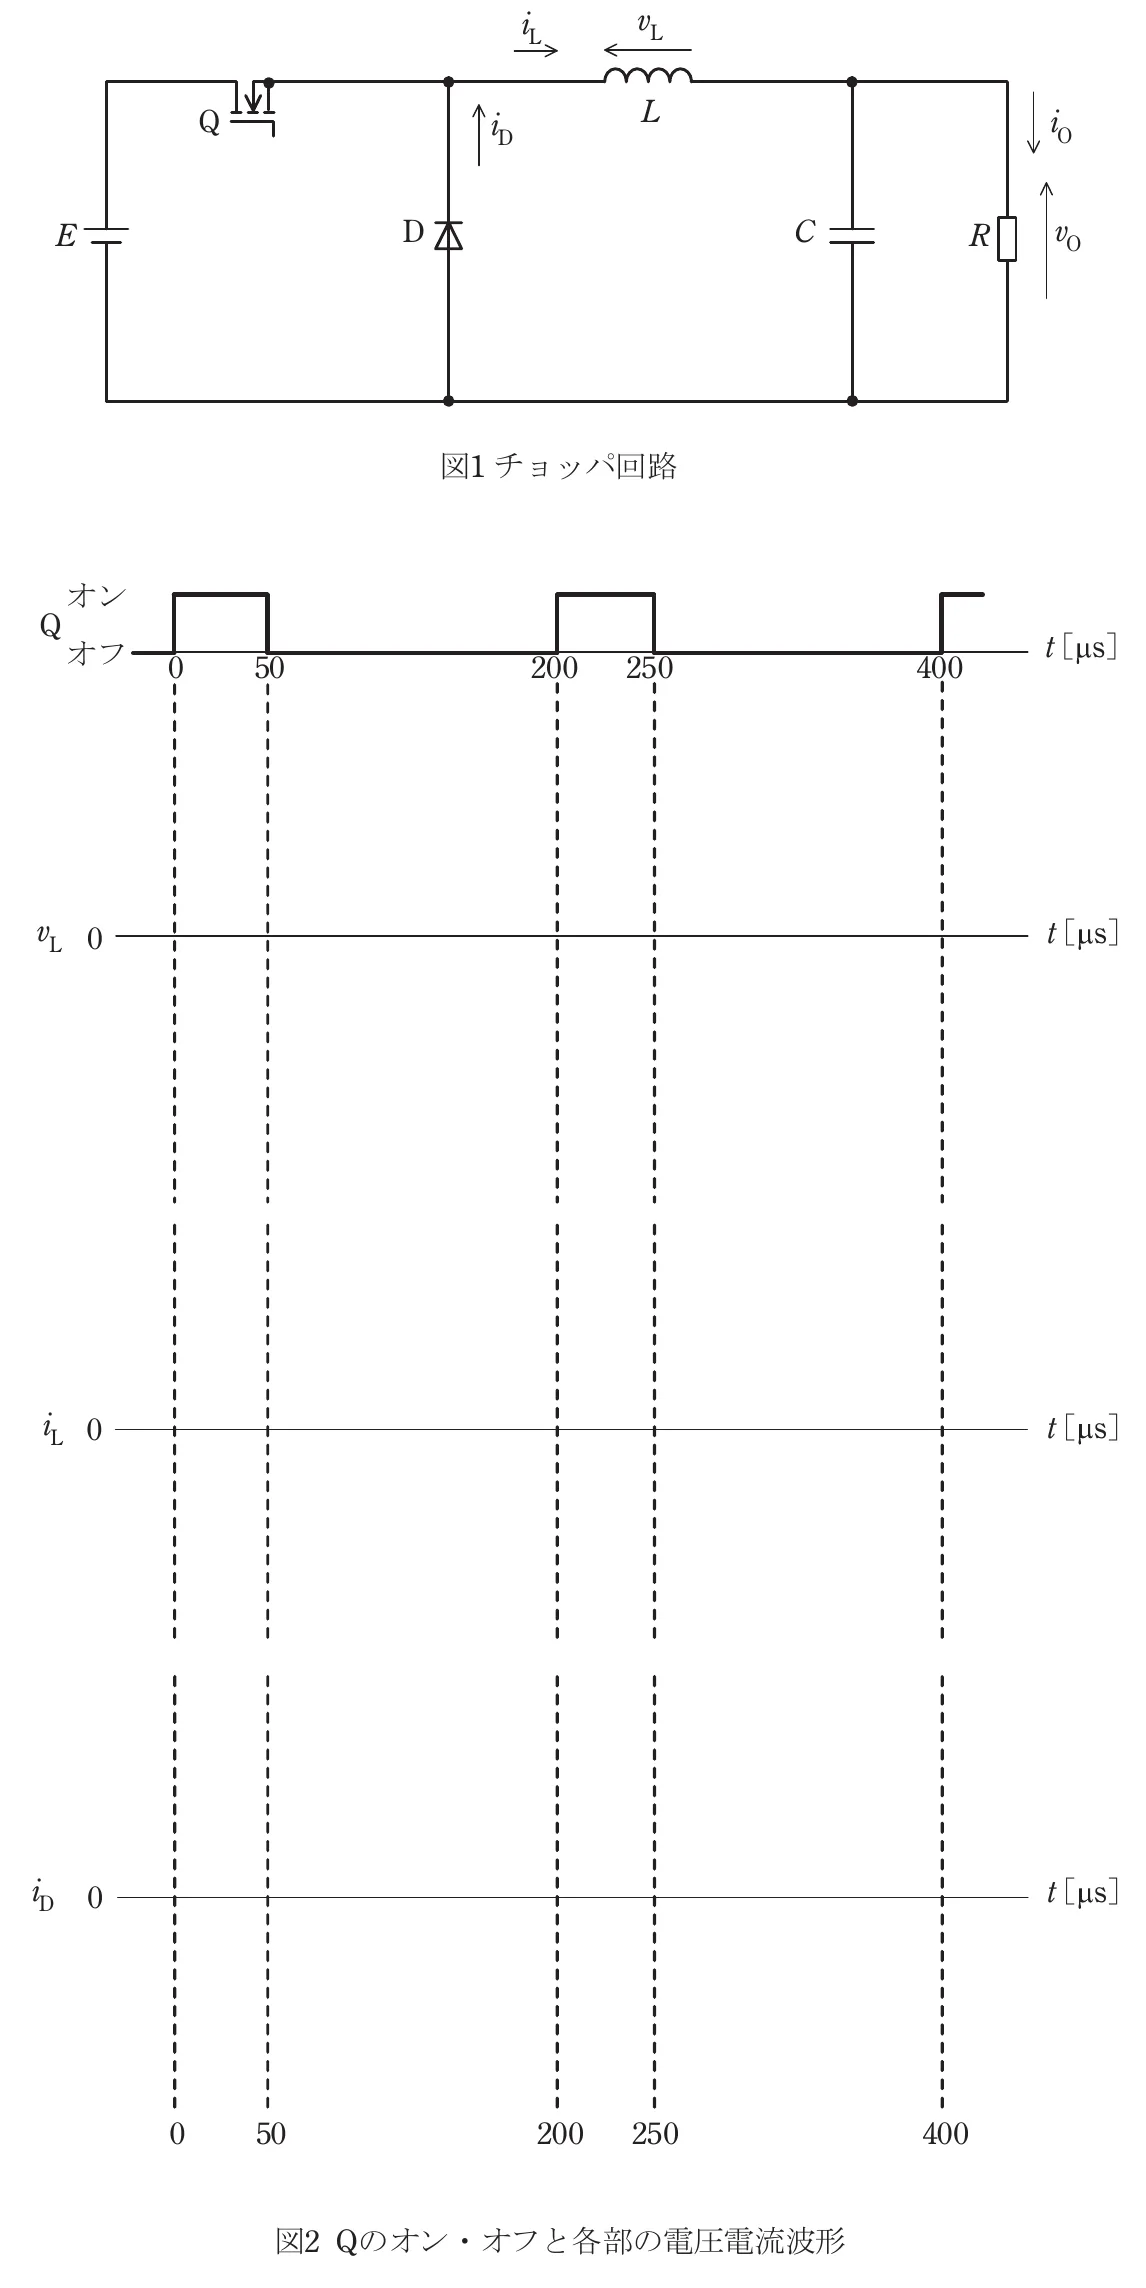
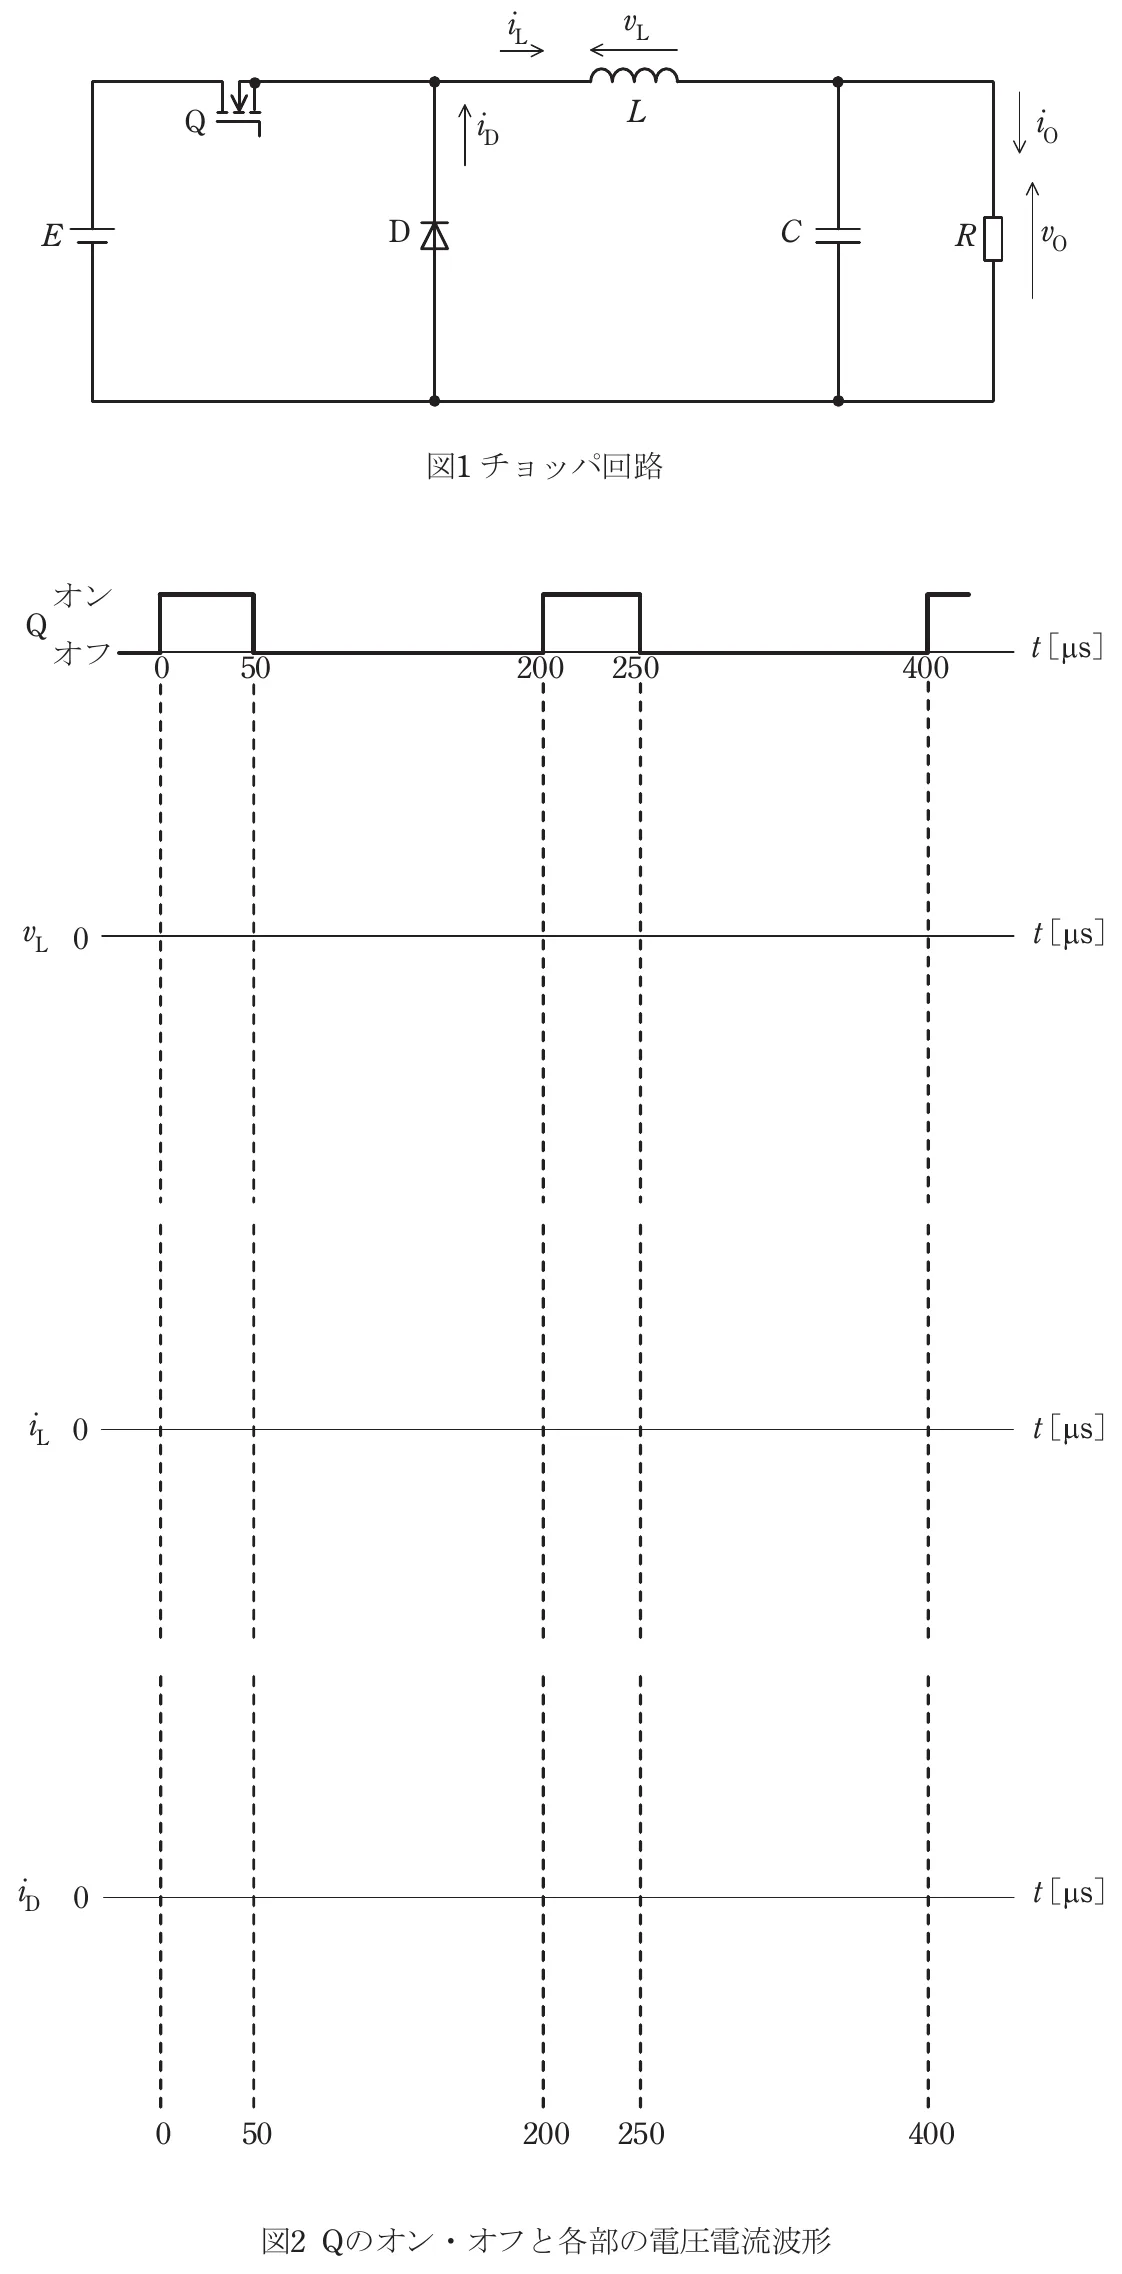
Adjust R06 question figure display

diff --git a/AnkiTapWeb/style.css b/AnkiTapWeb/style.css
@@ -323,6 +323,12 @@ progress::-webkit-progress-value {
   background: white;
 }
 
+.past-question-img.past-question-img-fit-width {
+  width: 100%;
+  max-width: 100%;
+  max-height: none;
+}
+
 .past-answer-panel {
   display: grid;
   grid-template-rows: auto minmax(96px, 1fr);
@@ -760,6 +766,12 @@ progress::-webkit-progress-value {
   .past-question-image,
   .past-question-img {
     max-height: min(34vh, 360px);
+  }
+
+  .past-question-img.past-question-img-fit-width {
+    width: 100%;
+    max-width: 100%;
+    max-height: none;
   }
 
   .past-answer-panel {

diff --git a/AnkiTapWeb/app.js b/AnkiTapWeb/app.js
@@ -947,9 +947,19 @@ function renderPastProblem(question) {
 
   const image = document.createElement("img");
   image.className = "past-question-img";
+  if (isFitWidthQuestionFigure(question)) {
+    image.classList.add("past-question-img-fit-width");
+  }
   image.alt = "過去問の問題図";
   setImageSource(image, question.questionImage);
   elements.pastQuestionImage.append(image);
+}
+
+function isFitWidthQuestionFigure(question) {
+  return [
+    "r06_second_kikai_seigyo_q03",
+    "r06_second_denryoku_kanri_q04"
+  ].includes(question.id);
 }
 
 function renderPastTabs(tabs) {